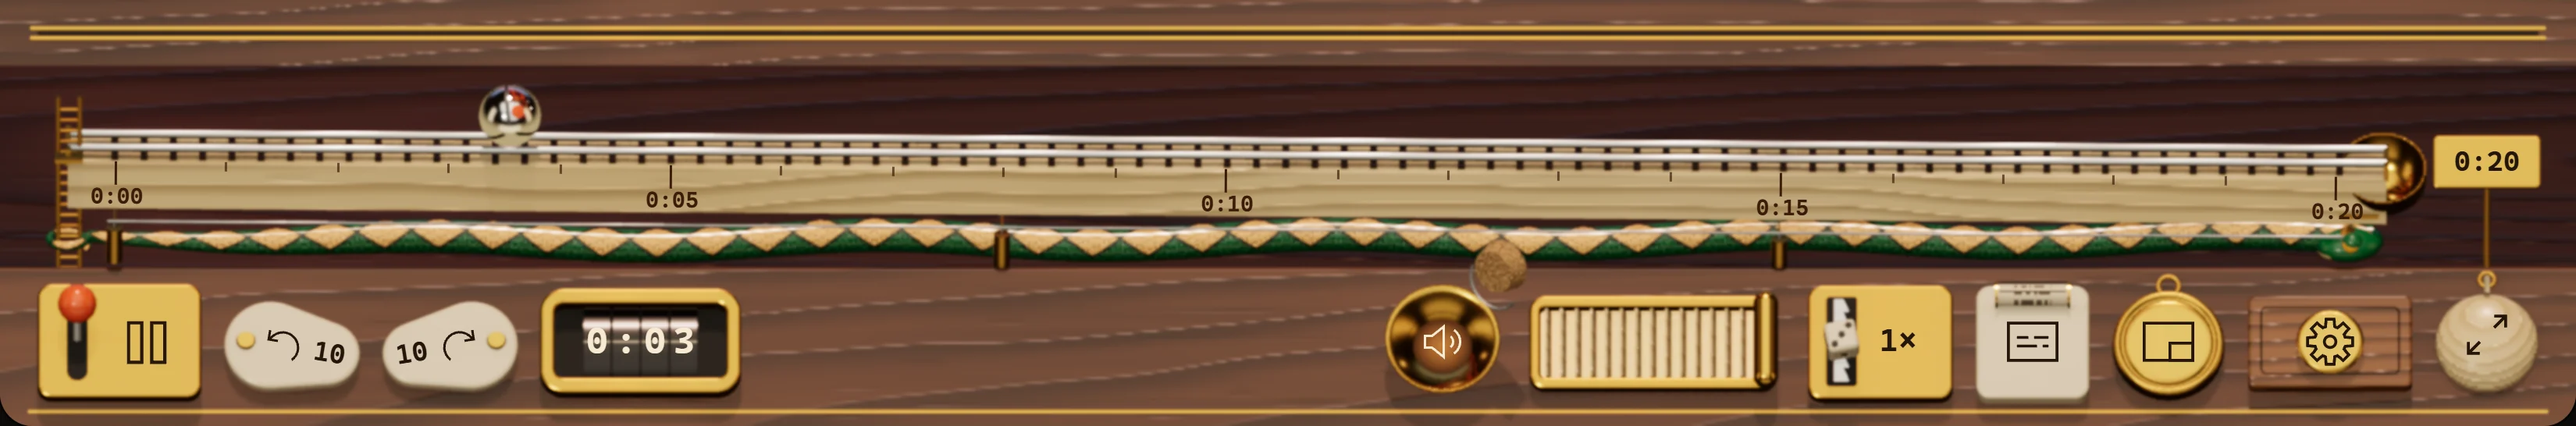
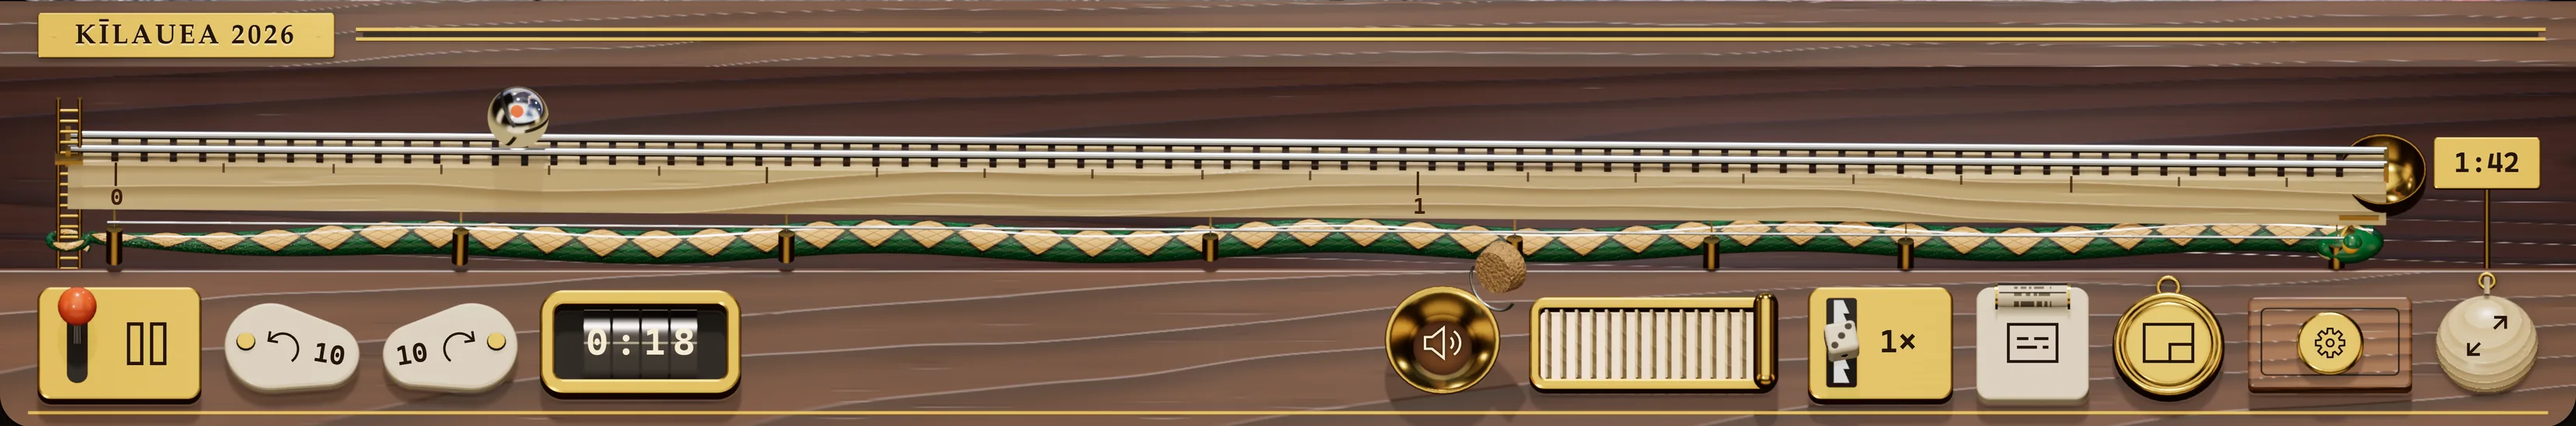
Plan scene: the dock re-shot at 6x so the camera stays sharp; the playhead sweeps it in and a brass loupe travels it part by part

diff --git a/site/story.ts b/site/story.ts
@@ -14,89 +14,68 @@ export function start(): void {
   ScrollTrigger.refresh();
 }
 
-/** The plan: the camera travels the dock part by part; each part lights from line drawing to wood as it is named. */
+/** The plan: the playhead sweeps the dock in, then a brass loupe travels it part by part while the room dims around it. */
 function plan(): void {
   const section = document.querySelector<HTMLElement>('.plan.is-scene');
   if (!section) return;
-  const stage = section.querySelector<HTMLElement>('.plan-stage')!;
   const view = section.querySelector<HTMLElement>('.plan-view')!;
   const art = section.querySelector<HTMLElement>('.plan-art')!;
-  const mask = section.querySelector('mask')!;
-  const all = section.querySelector('.lit-all')!;
-  const line = section.querySelector('.leader polyline')!;
-  const dot = section.querySelector('.leader circle')!;
-  const parts = [...section.querySelectorAll<HTMLLIElement>('.parts li')].map((li) => {
-    const x = (Number(li.dataset.x) / 100) * ART.w;
-    const y = (Number(li.dataset.y) / 100) * ART.h;
-    const spot = document.createElementNS(NS, 'circle');
-    spot.setAttribute('cx', String(x));
-    spot.setAttribute('cy', String(y));
-    spot.setAttribute('r', '0');
-    spot.setAttribute('fill', 'url(#spot)');
-    mask.append(spot);
-    return { li, x, y, r: Number(li.dataset.r) * 1.35, spot };
-  });
+  const lens = [section.querySelector('.spot')!, section.querySelector('.loupe')!];
+  const shade = section.querySelector('.plan-shade')!;
+  const reveal = section.querySelector('.reveal')!;
+  const edge = section.querySelector('.plan-edge')!;
+  // The camera needs the full-size picture; it loads now, after the machine has mounted.
+  for (const image of section.querySelectorAll('.plan-dock')) image.setAttribute('href', './img/dock-6600.webp');
+  const parts = [...section.querySelectorAll<HTMLLIElement>('.parts li')].map((li) => ({
+    li,
+    x: (Number(li.dataset.x) / 100) * ART.w,
+    y: (Number(li.dataset.y) / 100) * ART.h,
+    r: Number(li.dataset.r) * 1.1,
+  }));
   section.style.setProperty('--steps', String(parts.length + 1));
   art.style.cssText = 'position:absolute;inset:0 auto auto 0;inline-size:100%';
 
   const width = (): number => view.clientWidth;
   const height = (): number => (width() * ART.h) / ART.w;
-  const zoom = (): number => Math.min(6, Math.max(2.2, (view.clientHeight * 0.72) / height()));
-  const clamp = (v: number, lo: number, hi: number): number => Math.min(hi, Math.max(lo, v));
-  // Where the art sits to put point (x, y) at the middle of the view, without showing past its ends.
-  const shot = (p?: { x: number; y: number }): gsap.TweenVars => ({
-    scale: () => (p ? zoom() : 1),
-    x: () => (p ? clamp(width() / 2 - (zoom() * p.x * width()) / ART.w, width() - zoom() * width(), 0) : 0),
-    y: () => {
-      const s = p ? zoom() : 1;
-      const h = s * height();
-      const vh = view.clientHeight;
-      if (!p || h <= vh) return (vh - h) / 2;
-      return clamp(vh / 2 - (s * p.y * height()) / ART.h, vh - h, 0);
-    },
+  // Each part fills most of the view's height inside its loupe, but never closer than the picture's
+  // 6600 px of detail allow at this screen's density.
+  const zoom = (p: { r: number }): number => {
+    const most = Math.min(6, 7200 / (width() * (window.devicePixelRatio || 1)));
+    return Math.min(most, (view.clientHeight * 0.84) / ((2 * p.r * height()) / ART.h));
+  };
+  // Where the art sits to put the part at the middle of the view; past the dock's ends the page shows.
+  const shot = (p?: { x: number; y: number; r: number }): gsap.TweenVars => ({
+    scale: () => (p ? zoom(p) : 1),
+    x: () => (p ? width() / 2 - (zoom(p) * p.x * width()) / ART.w : 0),
+    y: () => (p ? view.clientHeight / 2 - (zoom(p) * p.y * height()) / ART.h : (view.clientHeight - height()) / 2),
   });
 
-  gsap.set(all, { opacity: 0 });
   gsap.set(art, shot());
+  gsap.set(reveal, { attr: { width: 0 } });
+  gsap.set(edge, { attr: { x: 0 }, opacity: 0.85 });
+  gsap.set(lens, { attr: { cx: parts[0]!.x, cy: parts[0]!.y, r: 0 } });
   gsap.set(parts.map((p) => p.li), { autoAlpha: 0, y: 16 });
-
-  const leader = (): void => {
-    let best = parts[0]!;
-    let alpha = 0;
-    for (const p of parts) {
-      const a = Number(gsap.getProperty(p.li, 'opacity'));
-      if (a > alpha) [best, alpha] = [p, a];
-    }
-    const s = Number(gsap.getProperty(art, 'scale'));
-    const box = stage.getBoundingClientRect();
-    const v = view.getBoundingClientRect();
-    const px = v.left - box.left + Number(gsap.getProperty(art, 'x')) + (s * best.x * width()) / ART.w;
-    const py = v.top - box.top + Number(gsap.getProperty(art, 'y')) + (s * best.y * height()) / ART.h;
-    const h3 = best.li.querySelector('h3')!.getBoundingClientRect();
-    const lx = h3.left - box.left + 6;
-    const ly = h3.top - box.top - 14;
-    const knee = Math.min(ly - 12, Math.max(py + 28, v.bottom - box.top + 8));
-    line.setAttribute('points', `${lx},${ly} ${px},${knee} ${px},${py + 9}`);
-    dot.setAttribute('cx', String(px));
-    dot.setAttribute('cy', String(py));
-    (line.parentNode as SVGElement).style.opacity = String(alpha);
-  };
 
   const tl = gsap.timeline({
     defaults: { ease: 'power2.inOut' },
-    onUpdate: leader,
     scrollTrigger: { trigger: section.querySelector('.plan-track'), start: 'top top', end: 'bottom bottom', scrub: 0.6, invalidateOnRefresh: true },
   });
-  tl.to({}, { duration: 0.4 });
-  for (const p of parts) {
-    tl.to(art, { ...shot(p), duration: 1 });
-    tl.to(p.spot, { attr: { r: p.r }, duration: 0.7, ease: 'power2.out' }, '<0.45');
-    tl.to(p.li, { autoAlpha: 1, y: 0, duration: 0.35, ease: 'power2.out' }, '<0.1');
-    tl.to({}, { duration: 0.7 });
-    tl.to(p.li, { autoAlpha: 0, y: -12, duration: 0.3, ease: 'power1.in' });
+  // The playhead crosses the dock and the machine appears behind it.
+  tl.to(reveal, { attr: { width: ART.w }, duration: 1.4, ease: 'none' });
+  tl.to(edge, { attr: { x: ART.w - 5 }, duration: 1.4, ease: 'none' }, 0);
+  tl.to(edge, { opacity: 0, duration: 0.2 }, 1.3);
+  for (const [i, p] of parts.entries()) {
+    const t = tl.duration();
+    tl.to(art, { ...shot(p), duration: 1 }, t);
+    tl.to(lens, { attr: { cx: p.x, cy: p.y, r: p.r }, duration: 1 }, t);
+    if (i === 0) tl.to(shade, { opacity: 0.62, duration: 0.6 }, t + 0.2);
+    tl.to(p.li, { autoAlpha: 1, y: 0, duration: 0.35, ease: 'power2.out' }, t + 0.55);
+    tl.to(p.li, { autoAlpha: 0, y: -12, duration: 0.3, ease: 'power1.in' }, t + 1.6);
   }
-  tl.to(art, { ...shot(), duration: 1 });
-  tl.to(all, { opacity: 1, duration: 0.6 }, '<0.3');
+  const end = tl.duration();
+  tl.to(art, { ...shot(), duration: 1 }, end);
+  tl.to(lens, { attr: { r: 0 }, duration: 0.6 }, end);
+  tl.to(shade, { opacity: 0, duration: 0.6 }, end + 0.3);
   tl.to({}, { duration: 0.5 });
 }
 

diff --git a/site/index.html b/site/index.html
@@ -63,15 +63,20 @@
             <div class="plan-art">
               <svg viewBox="0 0 3300 546" role="img" aria-label="The walnut dock of the player: rail with marble, ladder, chime bars, snake and bell above a bench of brass and wooden keys.">
                 <defs>
-                  <!-- taste-skill-ignore: a soft-edged spotlight in the mask, not a fill on the page -->
-                  <radialGradient id="spot"><stop offset="0.55" stop-color="#fff" /><stop offset="1" stop-color="#fff" stop-opacity="0" /></radialGradient>
+                  <!-- taste-skill-ignore: the loupe's feathered edge in the mask, not a fill on the page -->
+                  <radialGradient id="spot"><stop offset="0.9" stop-color="#fff" /><stop offset="1" stop-color="#fff" stop-opacity="0" /></radialGradient>
                   <mask id="lit" maskUnits="userSpaceOnUse" x="0" y="0" width="3300" height="546">
-                    <rect class="lit-all" width="3300" height="546" fill="#fff" />
+                    <circle class="spot" r="0" fill="url(#spot)" />
                   </mask>
+                  <clipPath id="reveal"><rect class="reveal" width="3300" height="546" /></clipPath>
                 </defs>
-                <image class="plan-dim" href="./img/dock-walnut.webp" width="3300" height="546" />
-                <image class="plan-lines" href="./img/plan.webp" width="3300" height="546" />
-                <image class="plan-wood" href="./img/dock-walnut.webp" width="3300" height="546" mask="url(#lit)" />
+                <g clip-path="url(#reveal)">
+                  <image class="plan-dock" href="./img/dock-walnut.webp" width="3300" height="546" />
+                  <rect class="plan-shade" width="3300" height="546" />
+                  <image class="plan-dock plan-lit" href="./img/dock-walnut.webp" width="3300" height="546" mask="url(#lit)" />
+                </g>
+                <circle class="loupe" r="0" />
+                <rect class="plan-edge" width="10" height="546" />
               </svg>
             </div>
           </div>
@@ -81,7 +86,7 @@
             <li data-x="24.8" data-y="80" data-r="150"><h3>Time</h3><p>A brass drum counter; press it for the time left. Minutes are burned into the beam like a ruler.</p><p class="ctl">Time display</p></li>
             <li data-x="19.8" data-y="24" data-r="110"><h3>Seek</h3><p>Drag the marble, flick it and it rolls on with momentum, or tap the rail and it rolls there.</p><p class="ctl">Time slider</p></li>
             <li data-x="38.9" data-y="58" data-r="110"><h3>Chapters</h3><p>A tuned chime bar hangs at each chapter and the marble rings it in passing. Flick across several and they play in order.</p><p class="ctl">Slider chapters, chapter menu</p></li>
-            <li data-x="60" data-y="55" data-r="260"><h3>The way home</h3><p>The snake under the beam. It watches the marble, rises as the film nears its end, and swallows it at the bell.</p><p class="ctl">Ended state</p></li>
+            <li data-x="60" data-y="55" data-r="170"><h3>The way home</h3><p>The snake under the beam. It watches the marble, rises as the film nears its end, and swallows it at the bell.</p><p class="ctl">Ended state</p></li>
             <li data-x="92.6" data-y="30" data-r="120"><h3>End</h3><p>The marble drops into a brass bell, and every chime shimmers in turn.</p><p class="ctl">Ended state</p></li>
             <li data-x="2.6" data-y="30" data-r="110"><h3>Replay</h3><p>The ladder, the way up. It lifts the marble back to the start.</p><p class="ctl">Play button, ended</p></li>
             <li data-x="56" data-y="80" data-r="110"><h3>Mute</h3><p>A cork in the brass horn. Pull it and the sound comes back with a pop.</p><p class="ctl">Mute button</p></li>
@@ -92,7 +97,6 @@
             <li data-x="90.4" data-y="80" data-r="120"><h3>Settings</h3><p>A felt-lined drawer slides down the slope; each setting is a peg in a hole.</p><p class="ctl">Settings menu</p></li>
             <li data-x="96.5" data-y="80" data-r="110"><h3>Full screen</h3><p>A pull cord with a wooden bead that swings after the tug.</p><p class="ctl">Fullscreen button</p></li>
           </ol>
-          <svg class="leader" aria-hidden="true"><polyline points="0,0 0,0 0,0" /><circle r="7" /></svg>
         </div>
         </div>
         <div class="plan-more">

diff --git a/site/site.css b/site/site.css
@@ -148,13 +148,14 @@ main > section { padding-inline: var(--m); }
 .plan-head p { max-width: 58ch; color: var(--muted); }
 .plan-view { margin-top: 56px; overflow: hidden; }
 .plan-art { transform-origin: 0 0; }
-.plan-art svg { display: block; inline-size: 100%; block-size: auto; }
-.plan-lines, .plan-dim { opacity: 0; }
+.plan-art svg { display: block; inline-size: 100%; block-size: auto; overflow: visible; }
+.plan-shade { fill: var(--bg); opacity: 0; }
+.loupe { fill: none; stroke: #e2b45a; stroke-width: 6; }
+.plan-edge { fill: var(--accent); opacity: 0; }
 .parts { list-style: none; margin: 56px 0 0; padding: 0; display: grid; grid-template-columns: repeat(auto-fill, minmax(280px, 1fr)); gap: 40px 48px; }
 .parts h3, .plan-more h3 { font-size: var(--step-lead); letter-spacing: -0.02em; }
 .parts p { margin-top: 8px; }
 .parts .ctl { color: var(--muted); font-size: var(--step-small); }
-.leader { display: none; }
 .plan-more { margin-top: 96px; display: grid; gap: 24px; }
 .plan-more dl { margin: 0; display: grid; grid-template-columns: repeat(auto-fill, minmax(260px, 1fr)); gap: 24px 48px; }
 .plan-more dt { font-weight: 500; }
@@ -171,17 +172,11 @@ main > section { padding-inline: var(--m); }
   padding-block: 28px 40px;
 }
 .is-scene .plan-view { margin-top: 24px; position: relative; display: grid; align-items: center; }
-/* A dim room: the dock in low light, its drawing over it, and the part being named in full light. */
-.is-scene .plan-dim { opacity: 0.3; }
-.is-scene .plan-lines { opacity: 0.5; }
 .is-scene .parts { display: grid; grid-template-columns: minmax(0, 1fr); margin-top: 24px; min-block-size: 9.5em; }
 .is-scene .parts li { grid-area: 1 / 1; max-width: 46ch; opacity: 0; visibility: hidden; }
 .is-scene .parts li.is-on { visibility: visible; }
 .is-scene .parts h3 { font-size: var(--step-head); }
 .is-scene .plan-head, .is-scene .parts { position: relative; z-index: 1; }
-.is-scene .leader { display: block; position: absolute; inset: 0; z-index: 0; inline-size: 100%; block-size: 100%; pointer-events: none; overflow: visible; }
-.leader polyline { fill: none; stroke: var(--ink); stroke-width: 1.5; }
-.leader circle { fill: none; stroke: var(--ink); stroke-width: 2; }
 @media (width < 720px) {
   .is-scene .plan-head p { display: none; }
   .is-scene .parts { min-block-size: 12em; }
